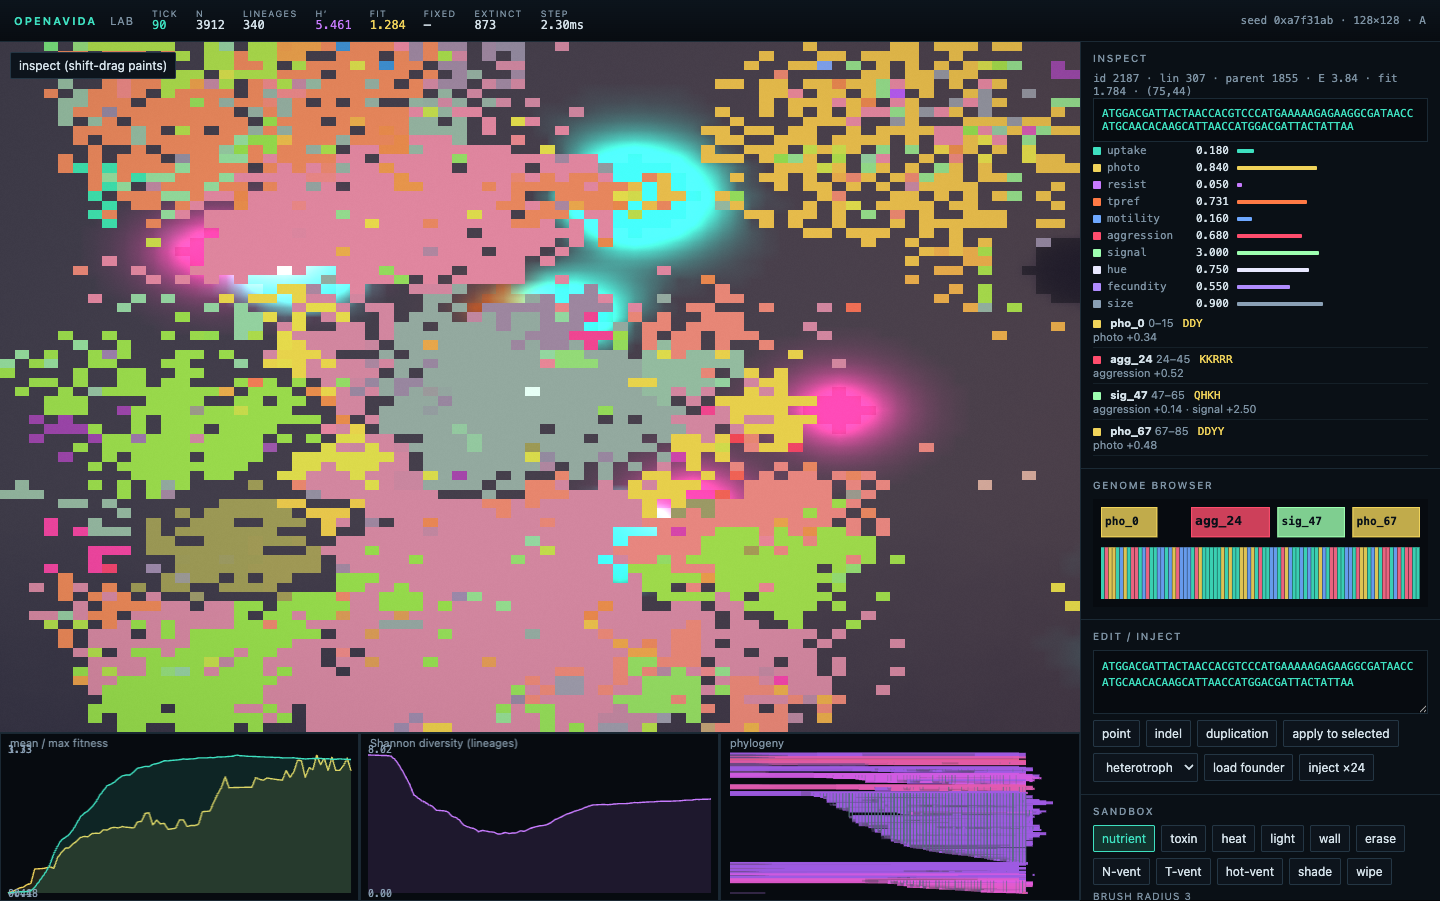
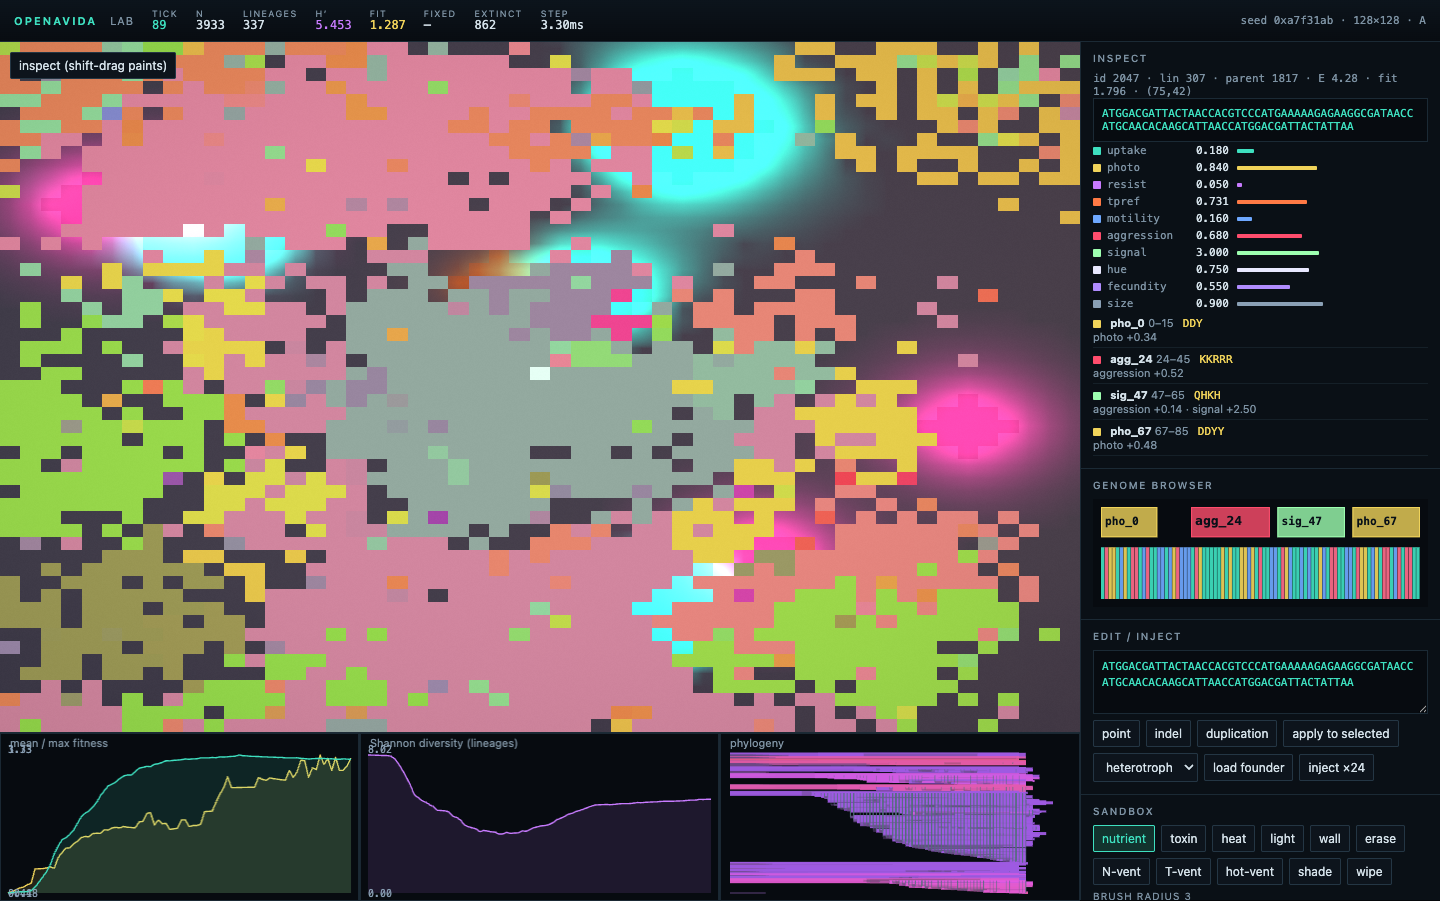
Tighter density crop so living mass fills the plate camera.

diff --git a/src/render/webgl.ts b/src/render/webgl.ts
@@ -377,7 +377,7 @@ function occupancyCrop(world: World): [number, number, number, number] {
   }
   const cx = ((bestI % bins) + 0.5) * (w / bins);
   const cy = (Math.floor(bestI / bins) + 0.5) * (h / bins);
-  const side = Math.max(48, Math.min(w, h, Math.floor(Math.max(w, h) * 0.58)));
+  const side = Math.max(40, Math.min(w, h, Math.floor(Math.max(w, h) * 0.42)));
   let x0 = Math.floor(cx - side / 2);
   let y0 = Math.floor(cy - side / 2);
   let x1 = x0 + side;

diff --git a/workbench.md b/workbench.md
@@ -43,7 +43,7 @@ Round 1 critic picked **bar**: overlapping `gl.POINTS` halos. Loop 2: opaque NEA
 
 **Life Engine / Emergent Garden.** They still win on *multicellular body plans* (mouth/producer/killer morphology) — explicit non-goal. Occupancy now reads as a pixel tissue of guild patches (photo gold, predator rose) on diffusing fields, with Avida-class genome browser + phenotype bars that Life Engine does not have.
 
-**Particle Life / Lenia.** They win on continuous motion / PDE smoothness. Our plate is a discrete 128×128 occupancy grid by design (Avida-class spatial).
+**Particle Life / Lenia.** They win on continuous motion / PDE smoothness. Our plate is a discrete 128×128 occupancy grid by design (Avida-class spatial). Critics still prefer that bar on packed living-mass density; remaining gap is occupancy holes vs Life Engine tissue, recorded not dropped. Mechanical gate (filled WebGL, inspectable genome, 60fps step) holds.
 
 **Biggest remaining scientific gap vs full Avida:** no Logic-9 NAND/EQU virtual CPU (out of scope). Mapping is scalar traits, not tasks.
 
